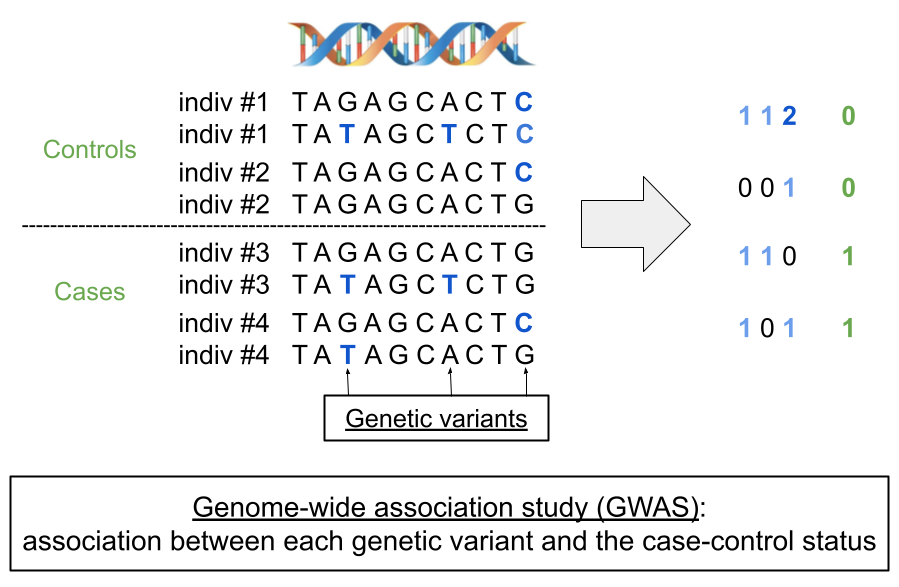
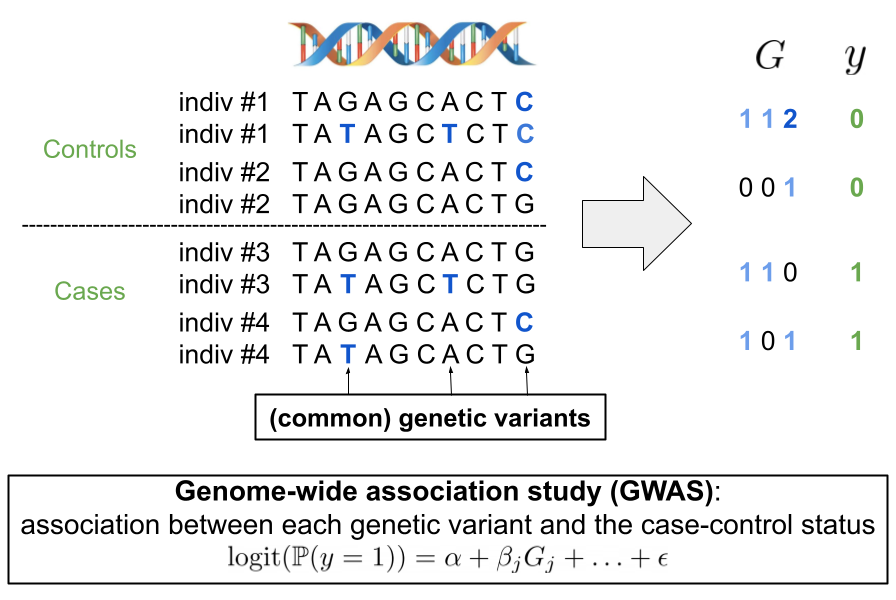
better slides

diff --git a/inserm-css6.html b/inserm-css6.html
@@ -51,9 +51,10 @@ background-size: 25%
 
 #### Research Interests
 
-- Statistical human genetics, polygenic scores, ancestry inference
+- Statistical human genetics, especially polygenic risk scores (PRS)
 
-- Development of scalable statistical methods and open-source software for large-scale genetic data analyses
+- Development of statistical methods and R/C++ packages    
+for efficient and powerful analyses of large-scale genetic data 
 
 --
 
@@ -83,20 +84,34 @@ class: center middle inverse
 
 ---
 
-### Disease genetic architecture and polygenic scores
+### GWAS and polygenic risk scores (PRS)
 
-&lt;img src="figures/disease-archi.png" width="75%" style="display: block; margin: auto;" /&gt;
+&lt;br&gt;
+
+Thanks to GWAS, we know that
+
+- many common genetic variants are causal/pathogenic
+
+- but, they usually have a small effect on their own (`\(\beta_j\)`)
+
+- `\(\Rightarrow\)` a single common variant *cannot* be used as a risk factor
 
 --
 
-- many common genetic variants are causal/pathogenic
-- but, they usually have a small effect on their own
-- however, aggregating many small effects can result in a large effect
-- this is called a polygenic (risk) score (PGS or PRS)
+&lt;br&gt;
+
+From GWAS data to polygenic risk scores (PRS):
+
+- instead of looking at each genetic variant independently in a GWAS
+
+- variants can be aggregated in a joint predictive model: `\(PRS = \sum_j \gamma_j G_j\)`
+
+- `\(\Rightarrow\)` the `\(PRS\)` has a much larger effect than each `\(G_j\)`    
+and *can* be used as a risk factor
 
 ---
 
-### &lt;u&gt;Public Health&lt;/u&gt;&lt;br&gt;Using PRS to modify risk assessment from traditional risk factors
+### &lt;u&gt;Public Health&lt;/u&gt;&lt;br&gt;Using PRS to refine risk assessment from traditional risk factors
 
 &lt;img src="figures/PRS-risk.PNG" width="85%" style="display: block; margin: auto;" /&gt;
 
@@ -109,7 +124,7 @@ class: center middle inverse
 
 ---
 
-### Modification of breast cancer risk using a PRS (of 86 variants)
+### Refining breast cancer risk using a PRS (of 86 variants)
 
 &lt;img src="figures/PRS-cancer-risk.png" width="80%" style="display: block; margin: auto;" /&gt;
 
@@ -125,9 +140,11 @@ Association and performance of polygenic risk scores for breast cancer among Fre
 
 class: center, middle, inverse
 
-# A major limitation of polygenic scores:
+# A major limitation of PRS:
 
-# their poor portability across ancestries
+## their poor portability across populations
+
+## risks exacerbating health disparities
 
 ---
 
@@ -149,7 +166,7 @@ Counter-intuitive, because it has been shown that
 
 &lt;br&gt;
 
-The issue: we often don't use causal variants in practice 
+&lt;u&gt;The issue&lt;/u&gt;: we often don't use causal variants in practice 
 
 &lt;img src="figures/LD-multipop.png" width="78%" style="display: block; margin: auto;" /&gt;
 
@@ -187,7 +204,7 @@ class: center, middle, inverse
 
 ---
 
-### WP1 and WP4 to ensure causal variants are in the input data
+### WP1 and WP4 to ensure causal variants are available
 
 &lt;br&gt;
 
@@ -203,7 +220,7 @@ class: center, middle, inverse
     - bigstatsr and bigsnpr, R packages for large-scale analyses
 
 - Published 28 papers, including **9 as first author and 2 as sole author**    
-(around 2750 citations in total, 2000 for my 11 first-author papers)
+(with 2700+ citations in total, 2000+ for my 11 first-author papers)
 
 --
 
